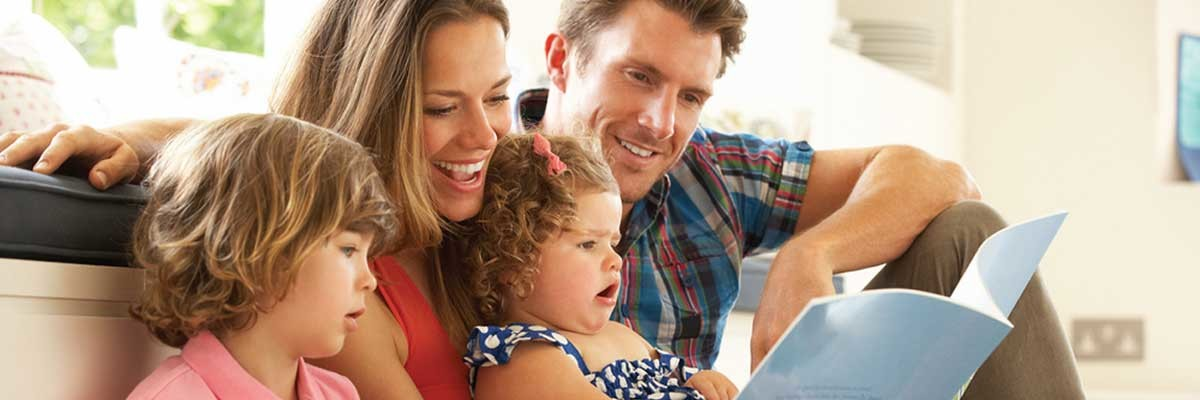
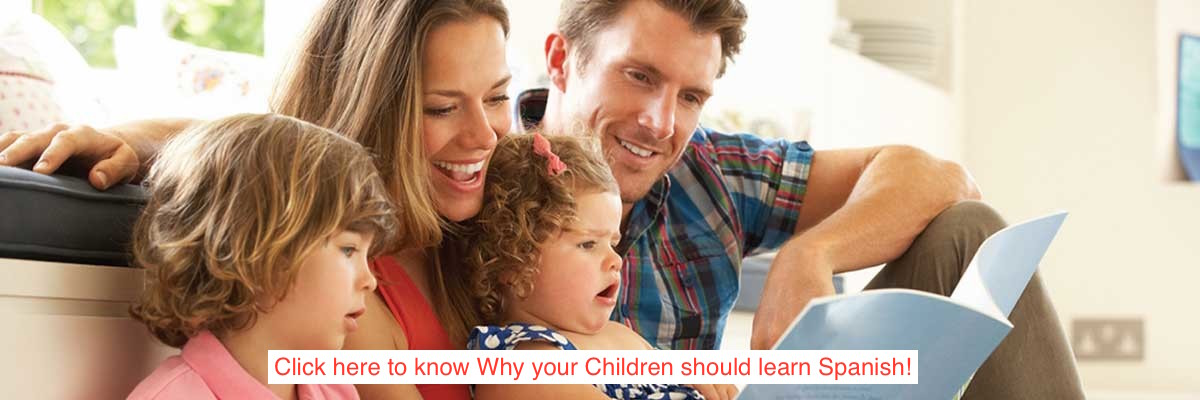
After meeting with a Kindergarten Teacher and getting some imput from other teachers I changed color layout, added links to the images on main page, created a simple 3 steps divs on main page, move instructions pop up to the pre-assessment page

Changed region(s): [[0.2158, 0.87, 0.7708, 0.96]]

diff --git a/index.html b/index.html
@@ -61,13 +61,13 @@
     <div class="carousel slide" data-ride="carousel" data-interval="3000" id="featured">
       <div class="carousel-inner">
         <div class="item active">
-          <img src="img/familia.jpg" alt="hola">
+          <a href="why.html"><img src="img/familia.jpg" alt="hola"></a>
           </div>
           <div class="item">
-          <img src="img/spanish.jpg" alt="hablaEspanol">
+          <a href="Tips.html"><img src="img/spanish.jpg" alt="hablaEspanol"></a>
           </div>
           <div class="item">
-          <img src="img/excel.jpg" alt="profesora">
+          <a href="Preassessment.html"><img src="img/excel.jpeg" alt="profesora"></a>
           </div>
           </div>
 <!-- Carousel control -->
@@ -84,38 +84,32 @@
   </div>
 </div>
 
-<div class="container" id="instructions">
-  <!-- Trigger the modal with a button -->
-  <button type="button" class="btn btn-info btn-lg" data-toggle="modal" data-target="#myModal">Click here for Instructions</button>
+<section class="container-fluid">
+      <h2>Teachers and Parents please follow the Steps...</h2>
 
-  <!-- Modal -->
-  <div class="modal fade" id="myModal" role="dialog">
-    <div class="modal-dialog">
-
-      <!-- Modal content-->
-      <div class="modal-content">
-        <div class="modal-header">
-          <button type="button" class="close" data-dismiss="modal">&times;</button>
-          <h4 class="modal-title">Welcome!!!</h4>
-        </div>
-        <div class="modal-body">
-          <p>This site is designed as a tool for parents and teachers who wish to teach spanish to children in Kindergarten.</p>
-          <p>You, the parent/teacher, should read the instructions and questions for the child and guide them through the learning experience.</p>
-          <p>If you are working with a learner that already knows how to read instructions, feel free to let them operate independently,
-             and you could serve as a monitor.</p>
-          <h3>Please start by taking the pre-assessment with your learner. The Assessment is on the Get Started tab, then click on the "See what you know".</h3>
-          <p>Then procced with the recommended level and follow the instructions in each lesson.</p>
-          <p>At the end of the final lesson you can take the final assessment. Have Fun!!!</p>
-        </div>
-        <div class="modal-footer">
-          <button type="button" class="btn btn-default" data-dismiss="modal">Close</button>
+<div class="row">
+      <div class="col-md-4">
+        <div class="step1">
+          <h3 class="step-tittle">1. Read</h3>
+          <p>You should read the instructions, questions, and options for the children, unless they want to do it by themselves.</p>
         </div>
       </div>
-
-    </div>
-  </div>
-
+      <div class="col-md-4">
+        <div class="step2">
+          <h3 class="step-tittle">2. Get Started</h3>
+          <p>Click on the "Get Started" tab, and then on the "See what you know" tab.</p>
+        </div>
+      </div>
+      <div class="col-md-4">
+        <div class="step3">
+          <h3 class="step-tittle">3. Guide</h3>
+          <p>You should monitor the children's progress, but most importantly have fun while doing it.</p>
+        </div>
+      </div>
 </div>
+</section>
+
+
 <!-- Jumbotron to sign up -->
 
 <div class="jumbotron">
@@ -126,7 +120,7 @@
 
 <!-- Footer -->
   <footer>
-   
+
    <!-- Copyright -->
    <div class="row">
     <div class="col-md-12">

diff --git a/Preassessment.html b/Preassessment.html
@@ -57,6 +57,39 @@
   </div><!-- /.container-fluid -->
 </nav>
 
+<div class="container" id="instructions">
+  <!-- Trigger the modal with a button -->
+  <button type="button" class="btn btn-info btn-lg" data-toggle="modal" data-target="#myModal">Click here for Instructions</button>
+
+  <!-- Modal -->
+  <div class="modal fade" id="myModal" role="dialog">
+    <div class="modal-dialog">
+
+      <!-- Modal content-->
+      <div class="modal-content">
+        <div class="modal-header">
+          <button type="button" class="close" data-dismiss="modal">&times;</button>
+          <h4 class="modal-title">Welcome!!!</h4>
+        </div>
+        <div class="modal-body">
+          <p>This site is designed as a tool for teachers and parents who wish to teach spanish to children in Kindergarten.</p>
+          <p>You, the teacher/parent, should read the instructions and questions for the child and guide them through the learning experience.</p>
+          <p>If you are working with a learner that already knows how to read instructions, feel free to let them operate independently,
+             and you could serve as a monitor.</p>
+          <h3>Please start by taking the pre-assessment with your learner.</h3>
+          <p>Then procced with the recommended level and follow the instructions in each lesson.</p>
+          <p>At the end of the final lesson you can take the final assessment. Have Fun!!!</p>
+        </div>
+        <div class="modal-footer">
+          <button type="button" class="btn btn-default" data-dismiss="modal">Close</button>
+        </div>
+      </div>
+
+    </div>
+  </div>
+
+</div>
+
 
   <div id="main"><!-- open main div -->
   <div id="header"><!-- open header div, the picture on css is not loading-->

diff --git a/css/style.css b/css/style.css
@@ -1,13 +1,17 @@
 body {
-  background-color: springgreen;
+  background-color: lightgoldenrodyellow;
+
 }
 li.dropdown:hover > .dropdown-menu {
   display: block;
 }
+.navbar {
+  background-color: cyan;
+}
 .jumbotron {
   margin-top: 50px;
   padding-left: 50px;
-  background-color: plum;
+  background-color: #99ff99;
 }
 #video {
   background: #e3e3e3;
@@ -55,7 +59,7 @@ li.dropdown:hover > .dropdown-menu {
   margin: 0 auto;
 }
 .container {
-  background-color: turquoise;
+  background-color: cyan;
   border-radius: 10px;
 }
 .pagination {
@@ -63,6 +67,7 @@ li.dropdown:hover > .dropdown-menu {
 }
 #instructions {
   margin-top: 50px;
+  margin-bottom: 50px;
   background-color: inherit;
   text-align: center;
 }
@@ -96,4 +101,21 @@ background: beige;
 background-image: url('../img/prea.jpg');
 color: white;
 text-shadow: black;
+}
+.step1 {
+  background-color: #ff4d4d;
+  border-radius: 10px;
+}
+.step2 {
+  background-color: #ffff33;
+  border-radius: 10px;
+}
+.step3 {
+  background-color: #77ff33;
+  border-radius: 10px;
+}
+.step-tittle {
+  color: #d9d9d9;
+  text-shadow: -3px 0 black, 0 3px black, 3px 0 black, 0 -3px black;
+  text-align: center;
 }
